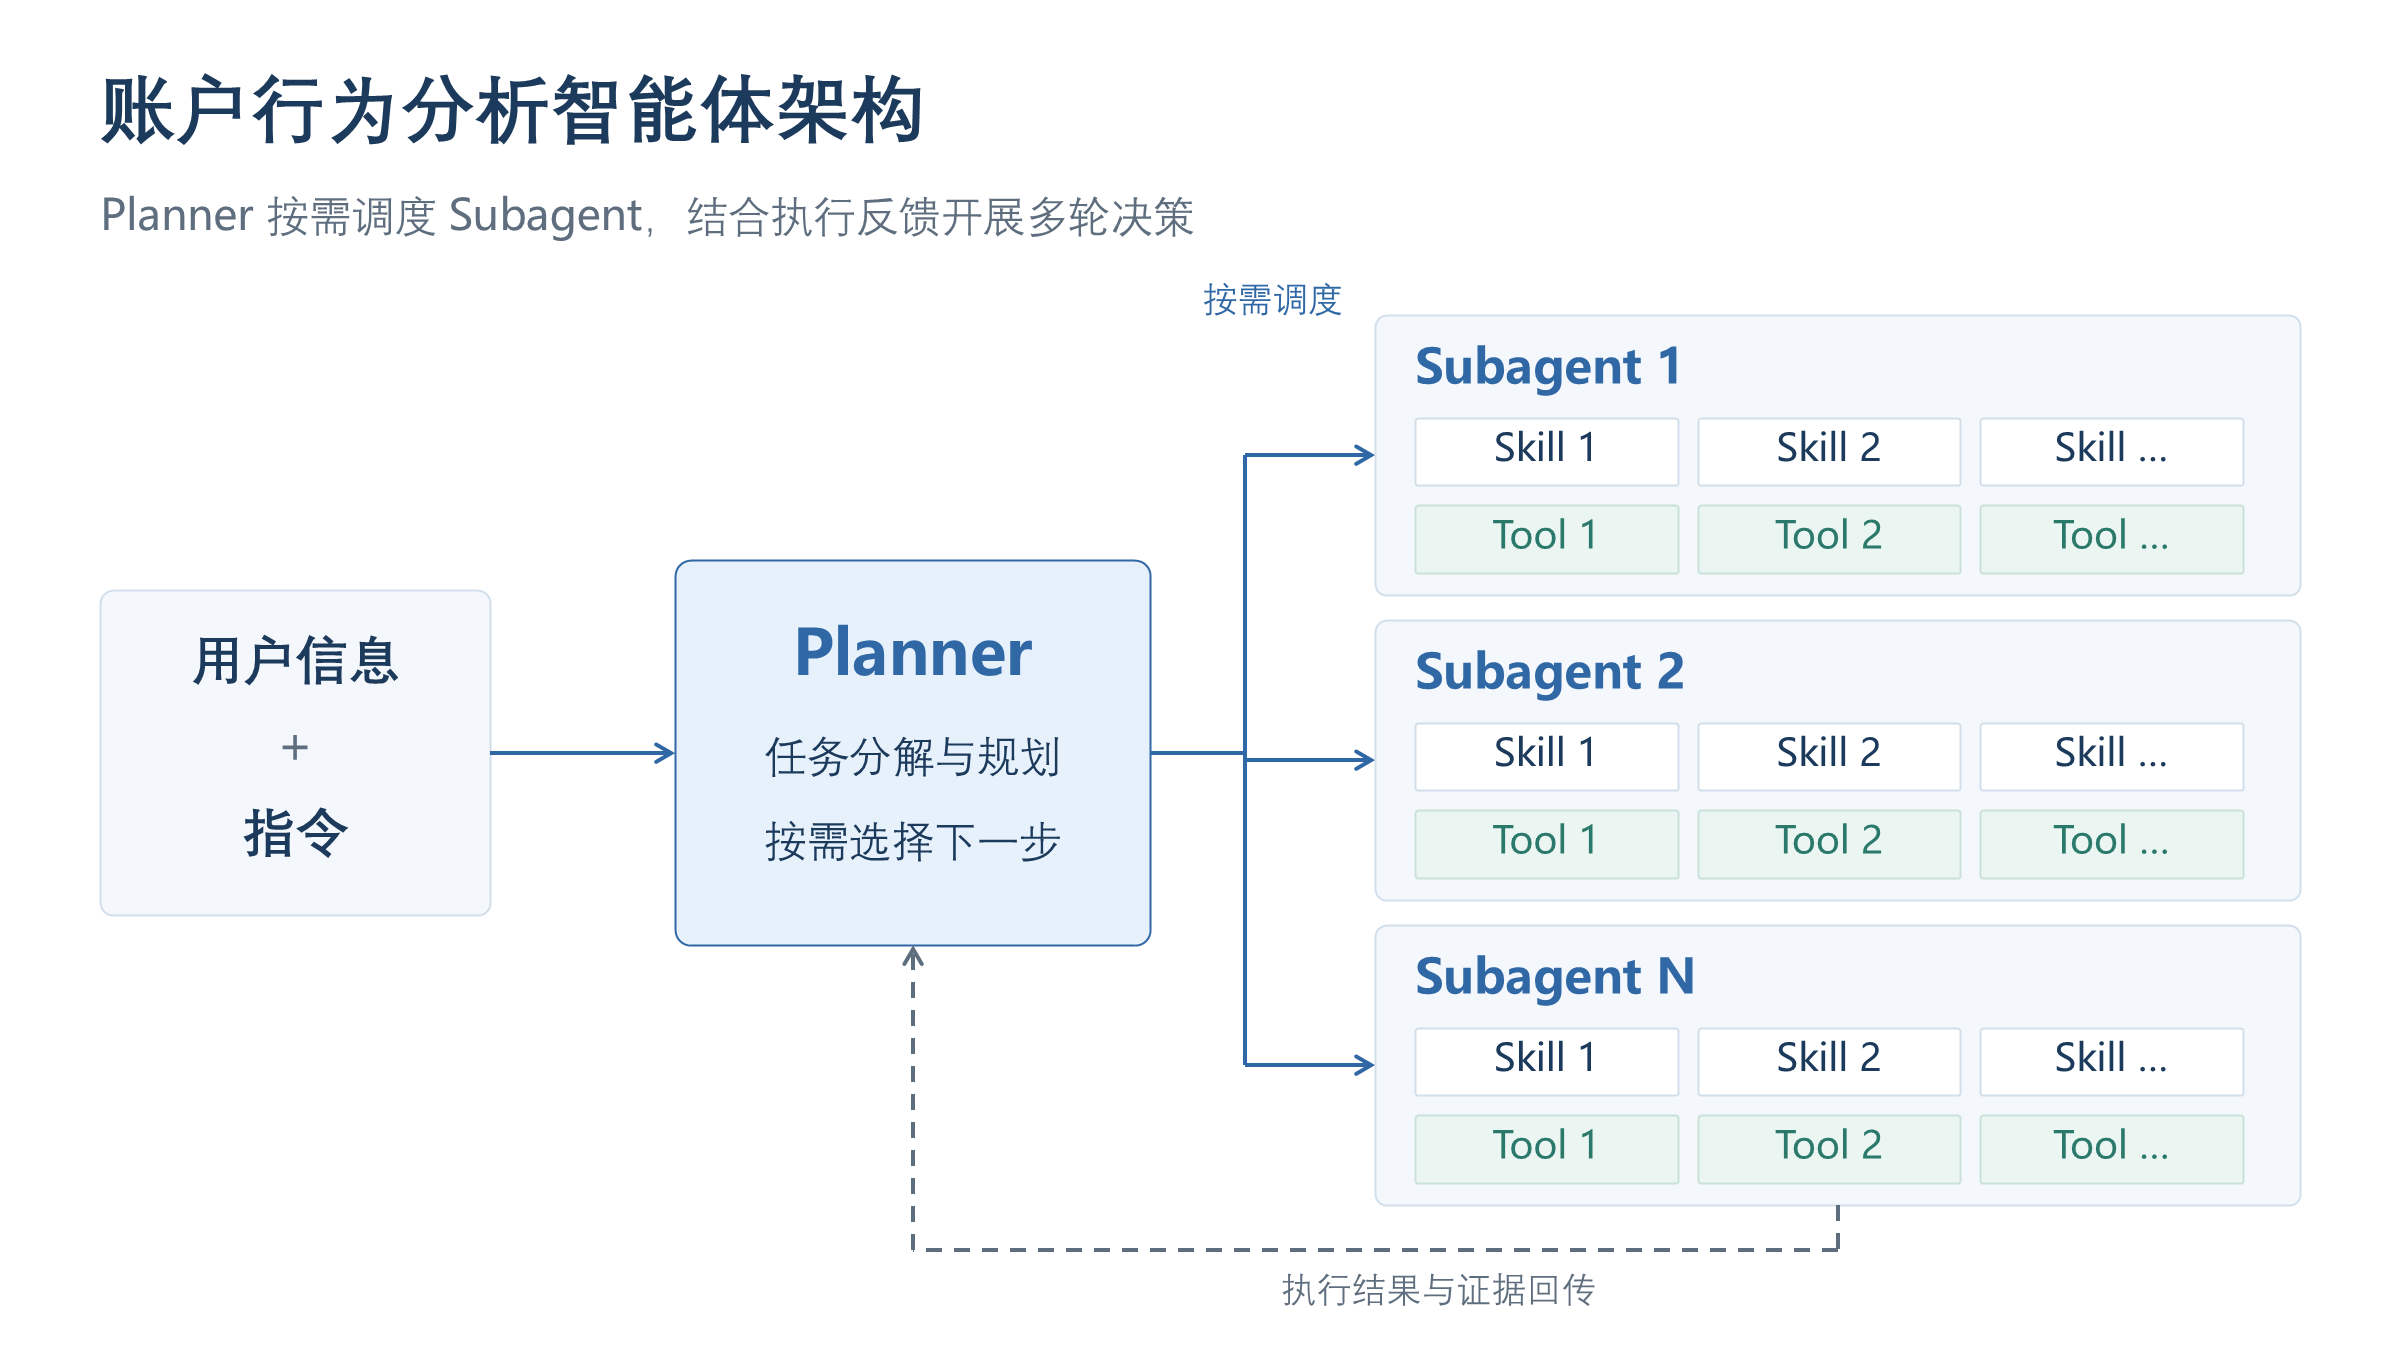
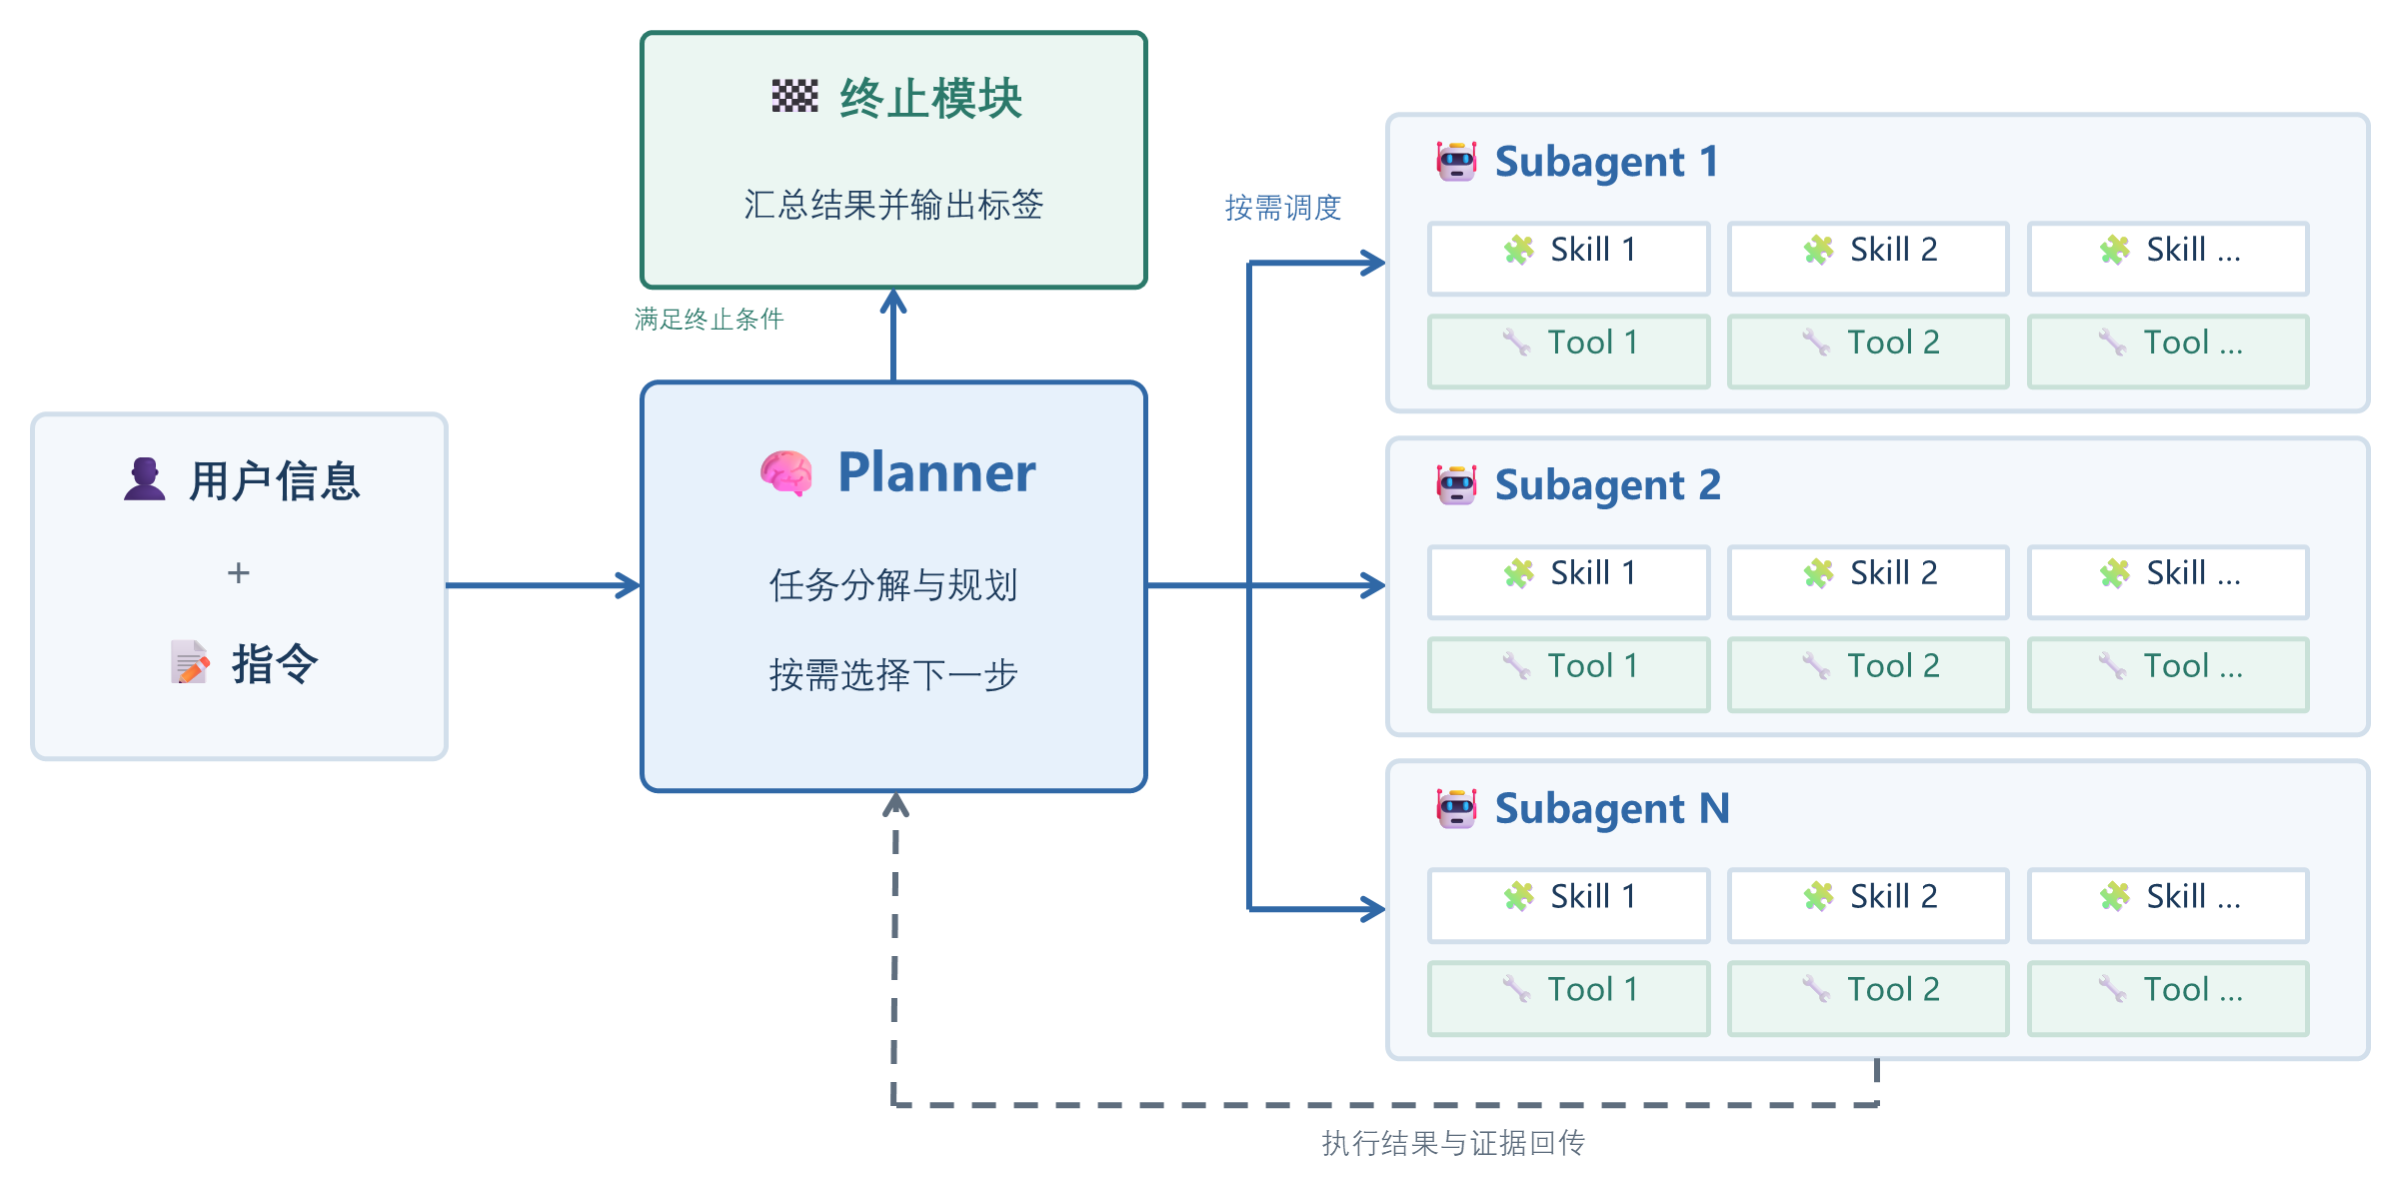
Update cropped architecture diagram and reduce image display size

diff --git a/_sass/_talk.scss b/_sass/_talk.scss
@@ -281,9 +281,13 @@
     }
 
     &.exp-overview img {
-      width: 100%;
+      width: 85%;
       height: auto;
       max-height: none;
+
+      @media (max-width: 640px) {
+        width: 100%;
+      }
     }
   }
 
